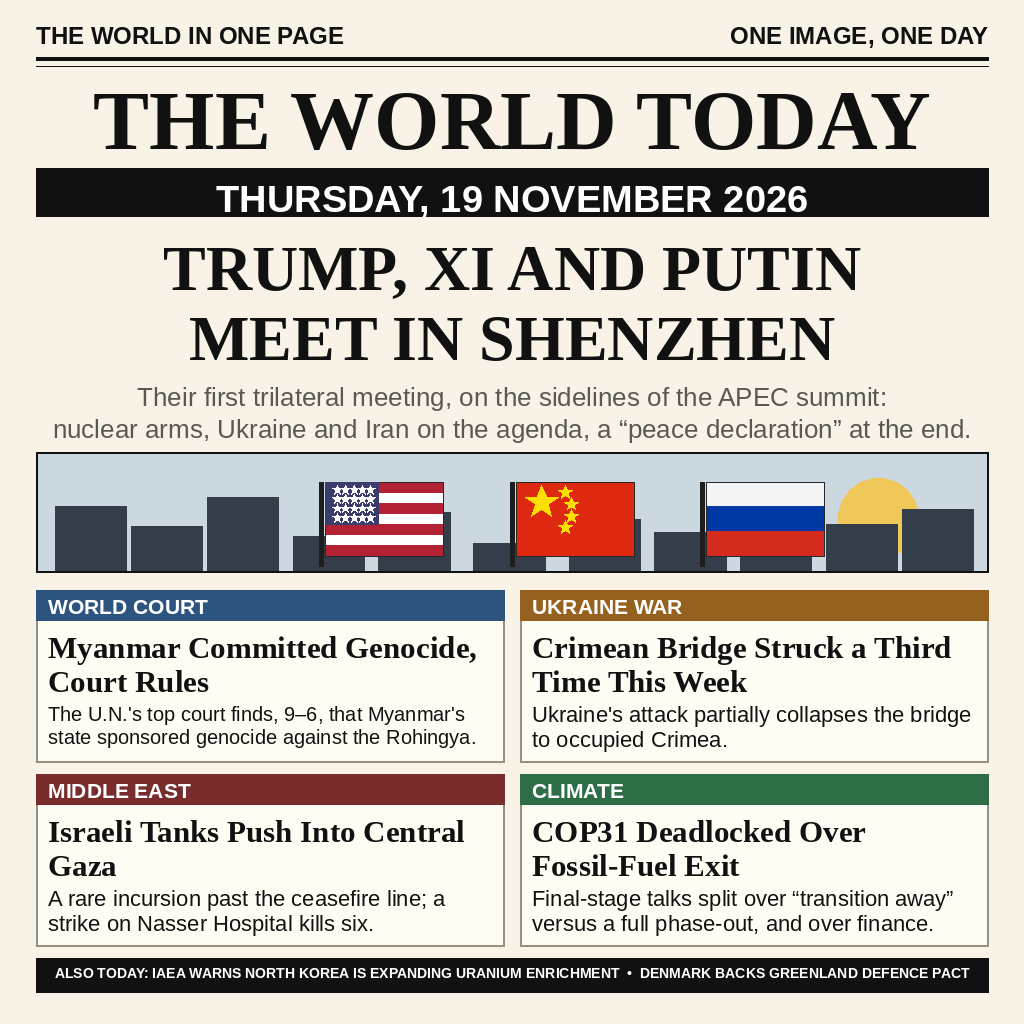
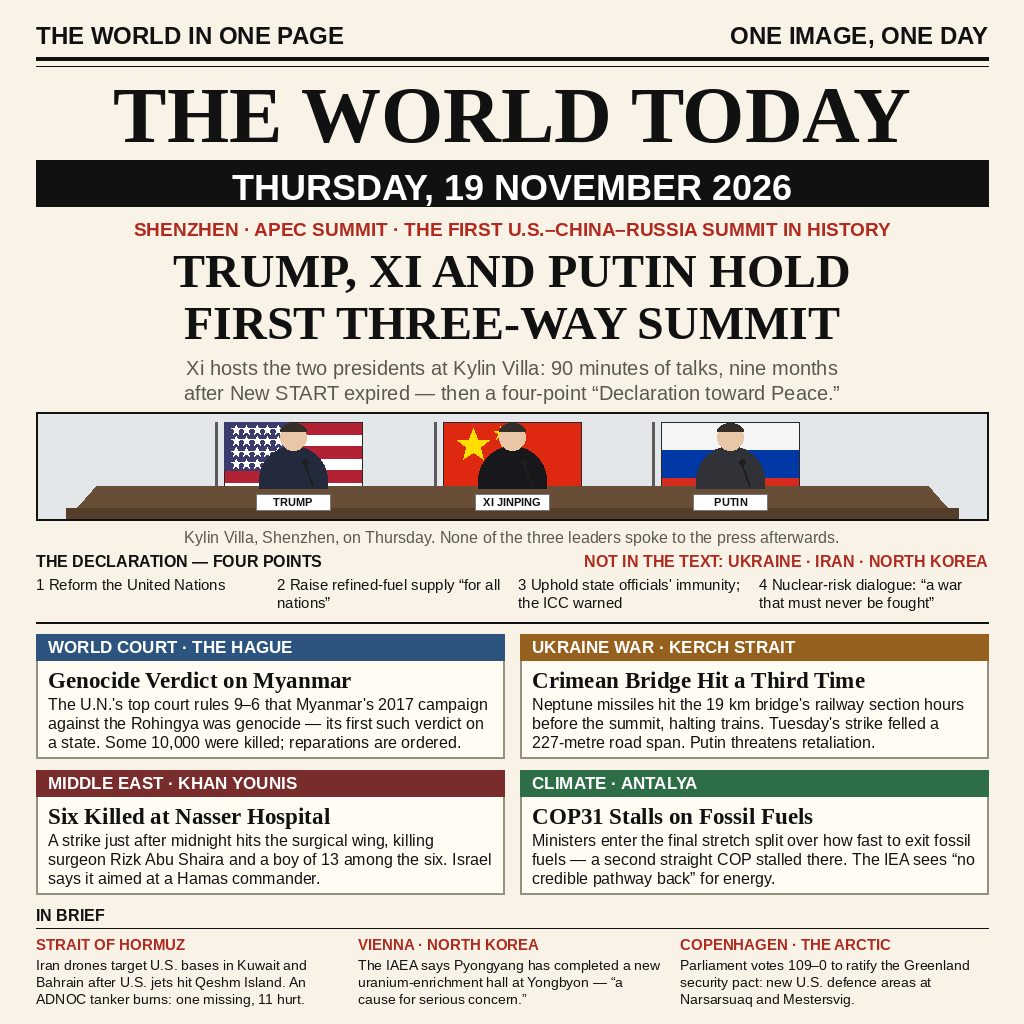
Enrich the front page: summit scene, declaration points, fuller stories

diff --git a/compose.py b/compose.py
@@ -110,46 +110,73 @@ def flag_ru(draw, x, y, w, h):
 
 
 def hero(draw, x0, y0, x1, y1):
-    """Shenzhen skyline under three flags: the trilateral summit."""
-    draw.rectangle([x0, y0, x1, y1], fill=SKY)
-    # sun
-    draw.ellipse([x1 - 150, y0 + 26, x1 - 70, y0 + 106], fill=(240, 200, 90))
-    # skyline silhouette
-    base = y1
-    towers = [(0.02, 0.55), (0.10, 0.38), (0.18, 0.62), (0.27, 0.30),
-              (0.36, 0.50), (0.46, 0.24), (0.56, 0.44), (0.65, 0.33),
-              (0.74, 0.58), (0.83, 0.40), (0.91, 0.52)]
-    for fx, fh in towers:
-        tx = x0 + fx * (x1 - x0)
-        tw = (x1 - x0) * 0.075
-        draw.rectangle([tx, base - (y1 - y0) * fh, tx + tw, base],
-                       fill=(52, 62, 74))
-    # flag poles with flags, standing in front of the skyline
-    fw, fh = 118, 74
+    """The summit itself: three leaders at one long table, flags behind."""
+    draw.rectangle([x0, y0, x1, y1], fill=(228, 231, 233))
+    w = x1 - x0
+    # the three flags on stands along the back wall
+    fw, fh = 138, 84
     flags = [flag_us, flag_cn, flag_ru]
+    names = ["TRUMP", "XI JINPING", "PUTIN"]
+    suits = [(35, 42, 60), (24, 24, 28), (48, 50, 56)]
+    centers = []
     for i, draw_flag in enumerate(flags):
-        cx = x0 + (x1 - x0) * (0.30 + 0.20 * i)
-        top = y0 + 30
-        draw.line([cx, top, cx, base - 6], fill=(30, 30, 30), width=5)
-        draw_flag(draw, cx + 4, top, fw, fh)
+        cx = x0 + w * (0.27 + 0.23 * i)
+        centers.append(cx)
+        draw.line([cx - fw / 2 - 8, y0 + 10, cx - fw / 2 - 8, y1 - 26],
+                  fill=(90, 90, 90), width=3)
+        draw_flag(draw, cx - fw / 2, y0 + 10, fw, fh)
+    # the long table
+    table_top = y1 - 34
+    draw.polygon([(x0 + 60, table_top), (x1 - 60, table_top),
+                  (x1 - 30, y1), (x0 + 30, y1)], fill=(104, 78, 54))
+    draw.rectangle([x0 + 30, y1 - 12, x1 - 30, y1], fill=(84, 62, 42))
+    # the three leaders, seated at the table under their flags
+    for i, cx in enumerate(centers):
+        # shoulders and suit
+        draw.pieslice([cx - 34, table_top - 40, cx + 34, table_top + 28],
+                      180, 360, fill=suits[i])
+        draw.rectangle([cx - 34, table_top - 6, cx + 34, table_top + 2],
+                       fill=suits[i])
+        # head, with a thin cap of hair rather than a helmet
+        draw.ellipse([cx - 13, table_top - 62, cx + 13, table_top - 36],
+                     fill=(233, 198, 165))
+        draw.pieslice([cx - 13, table_top - 63, cx + 13, table_top - 47],
+                      180, 360, fill=(52, 46, 40))
+        # microphone
+        draw.line([cx + 20, table_top, cx + 12, table_top - 22],
+                  fill=(30, 30, 30), width=2)
+        draw.ellipse([cx + 9, table_top - 27, cx + 15, table_top - 21],
+                     fill=(30, 30, 30))
+        # name card on the table
+        draw.rectangle([cx - 37, table_top + 8, cx + 37, table_top + 24],
+                       fill=(255, 255, 255), outline=(120, 120, 120))
+        f = sans("Bold", 11)
+        tw = draw.textlength(names[i], font=f)
+        draw.text((cx - tw / 2, table_top + 10), names[i], font=f, fill=INK)
     draw.rectangle([x0, y0, x1, y1], outline=INK, width=2)
 
 
 def panel(draw, x, y, w, h, tag, tag_color, headline, body):
     draw.rectangle([x, y, x + w, y + h], fill=PANEL, outline=(150, 144, 128), width=2)
-    draw.rectangle([x, y, x + w, y + 30], fill=tag_color)
-    draw.text((x + 12, y + 4), tag, font=sans("Bold", 21), fill=(255, 255, 255))
-    hy = wrapped(draw, x + 12, y + 40, headline, serif("Bold", 31), w - 24, 1.12)
+    draw.rectangle([x, y, x + w, y + 26], fill=tag_color)
+    draw.text((x + 12, y + 3), tag, font=sans("Bold", 17), fill=(255, 255, 255))
+    hy = wrapped(draw, x + 12, y + 33, headline, serif("Bold", 23), w - 24, 1.12)
     # shrink the body until it fits the space the headline left
-    size = 22
-    while size > 15:
+    size = 16
+    while size > 12:
         f = sans("Regular", size)
         probe = ImageDraw.Draw(Image.new("RGB", (8, 8)))
-        end = wrapped(probe, 0, 0, body, f, w - 24, 1.18)
-        if hy + 4 + end <= y + h - 8:
+        end = wrapped(probe, 0, 0, body, f, w - 24, 1.2)
+        if hy + 3 + end <= y + h - 6:
             break
         size -= 1
-    wrapped(draw, x + 12, hy + 4, body, sans("Regular", size), w - 24, 1.18)
+    wrapped(draw, x + 12, hy + 3, body, sans("Regular", size), w - 24, 1.2)
+
+
+def brief(draw, x, y, w, lead, body):
+    """One short item in the IN BRIEF strip: a bold place line, then the news."""
+    draw.text((x, y), lead, font=sans("Bold", 15), fill=ACCENT)
+    wrapped(draw, x, y + 21, body, sans("Regular", 14), w, 1.25)
 
 
 def main():
@@ -165,54 +192,88 @@ def main():
     draw.line([MARGIN, 66, W - MARGIN, 66], fill=INK, width=1)
 
     # masthead
-    centered(draw, 74, "THE WORLD TODAY", serif("Bold", 84))
+    centered(draw, 70, "THE WORLD TODAY", serif("Bold", 80))
 
     # date bar: names the day, as the judge asks
-    draw.rectangle([MARGIN, 168, W - MARGIN, 216], fill=INK)
-    centered(draw, 177, "THURSDAY, 19 NOVEMBER 2026", sans("Bold", 38),
+    draw.rectangle([MARGIN, 160, W - MARGIN, 206], fill=INK)
+    centered(draw, 167, "THURSDAY, 19 NOVEMBER 2026", sans("Bold", 36),
              fill=(255, 255, 255))
 
     # main headline: the trilateral summit in Shenzhen
-    centered(draw, 232, "TRUMP, XI AND PUTIN", serif("Bold", 64))
-    centered(draw, 302, "MEET IN SHENZHEN", serif("Bold", 64))
-    centered(draw, 382,
-             "Their first trilateral meeting, on the sidelines of the APEC summit:",
-             sans("Regular", 26), fill=GREY)
-    centered(draw, 414,
-             "nuclear arms, Ukraine and Iran on the agenda, a \u201cpeace declaration\u201d at the end.",
-             sans("Regular", 26), fill=GREY)
+    centered(draw, 218,
+             "SHENZHEN \u00b7 APEC SUMMIT \u00b7 THE FIRST U.S.\u2013CHINA\u2013RUSSIA SUMMIT IN HISTORY",
+             sans("Bold", 19), fill=ACCENT)
+    centered(draw, 244, "TRUMP, XI AND PUTIN HOLD", serif("Bold", 48))
+    centered(draw, 296, "FIRST THREE-WAY SUMMIT", serif("Bold", 48))
+    centered(draw, 356,
+             "Xi hosts the two presidents at Kylin Villa: 90 minutes of talks, nine months",
+             sans("Regular", 20), fill=GREY)
+    centered(draw, 381,
+             "after New START expired \u2014 then a four-point \u201cDeclaration toward Peace.\u201d",
+             sans("Regular", 20), fill=GREY)
 
-    hero(draw, MARGIN, 452, W - MARGIN, 572)
+    hero(draw, MARGIN, 412, W - MARGIN, 520)
+    centered(draw, 528,
+             "Kylin Villa, Shenzhen, on Thursday. None of the three leaders spoke to the press afterwards.",
+             sans("Regular", 16), fill=GREY)
 
-    # four more of the day's stories
+    # the declaration's four points, as a strip under the picture
+    dy = 552
+    draw.text((MARGIN, dy), "THE DECLARATION \u2014 FOUR POINTS",
+              font=sans("Bold", 16), fill=INK)
+    note = "NOT IN THE TEXT: UKRAINE \u00b7 IRAN \u00b7 NORTH KOREA"
+    draw.text((W - MARGIN - draw.textlength(note, font=sans("Bold", 16)), dy),
+              note, font=sans("Bold", 16), fill=ACCENT)
+    points = ["1  Reform the United Nations",
+              "2  Raise refined-fuel supply \u201cfor all nations\u201d",
+              "3  Uphold state officials' immunity; the ICC warned",
+              "4  Nuclear-risk dialogue: \u201ca war that must never be fought\u201d"]
+    colw = (W - 2 * MARGIN - 3 * 14) // 4
+    for i, p in enumerate(points):
+        wrapped(draw, MARGIN + i * (colw + 14), dy + 24, p,
+                sans("Regular", 15), colw, 1.2)
+    draw.line([MARGIN, dy + 70, W - MARGIN, dy + 70], fill=INK, width=2)
+
+    # four more of the day's stories, each with its key numbers
     pw = (W - 2 * MARGIN - 16) // 2
-    ph = 172
-    gy = 590
-    panel(draw, MARGIN, gy, pw, ph, "WORLD COURT", (44, 84, 126),
-          "Myanmar Committed Genocide, Court Rules",
-          "The U.N.'s top court finds, 9\u20136, that Myanmar's state sponsored "
-          "genocide against the Rohingya.")
-    panel(draw, MARGIN + pw + 16, gy, pw, ph, "UKRAINE WAR", (150, 96, 30),
-          "Crimean Bridge Struck a Third Time This Week",
-          "Ukraine's attack partially collapses the bridge to occupied Crimea.")
+    ph = 124
+    gy = 634
+    panel(draw, MARGIN, gy, pw, ph, "WORLD COURT \u00b7 THE HAGUE", (44, 84, 126),
+          "Genocide Verdict on Myanmar",
+          "The U.N.'s top court rules 9\u20136 that Myanmar's 2017 campaign "
+          "against the Rohingya was genocide \u2014 its first such verdict on a "
+          "state. Some 10,000 were killed; reparations are ordered.")
+    panel(draw, MARGIN + pw + 16, gy, pw, ph, "UKRAINE WAR \u00b7 KERCH STRAIT", (150, 96, 30),
+          "Crimean Bridge Hit a Third Time",
+          "Neptune missiles hit the 19 km bridge's railway section hours "
+          "before the summit, halting trains. Tuesday's strike felled a "
+          "227-metre road span. Putin threatens retaliation.")
     gy2 = gy + ph + 12
-    panel(draw, MARGIN, gy2, pw, ph, "MIDDLE EAST", (120, 44, 44),
-          "Israeli Tanks Push Into Central Gaza",
-          "A rare incursion past the ceasefire line; a strike on Nasser "
-          "Hospital kills six.")
-    panel(draw, MARGIN + pw + 16, gy2, pw, ph, "CLIMATE", (46, 110, 70),
-          "COP31 Deadlocked Over Fossil-Fuel Exit",
-          "Final-stage talks split over \u201ctransition away\u201d versus a full "
-          "phase-out, and over finance.")
+    panel(draw, MARGIN, gy2, pw, ph, "MIDDLE EAST \u00b7 KHAN YOUNIS", (120, 44, 44),
+          "Six Killed at Nasser Hospital",
+          "A strike just after midnight hits the surgical wing, killing "
+          "surgeon Rizk Abu Shaira and a boy of 13 among the six. Israel "
+          "says it aimed at a Hamas commander.")
+    panel(draw, MARGIN + pw + 16, gy2, pw, ph, "CLIMATE \u00b7 ANTALYA", (46, 110, 70),
+          "COP31 Stalls on Fossil Fuels",
+          "Ministers enter the final stretch split over how fast to exit "
+          "fossil fuels \u2014 a second straight COP stalled there. The IEA sees "
+          "\u201cno credible pathway back\u201d for energy.")
 
-    # footer ticker
-    draw.rectangle([MARGIN, 958, W - MARGIN, 992], fill=INK)
-    ticker = ("ALSO TODAY: IAEA WARNS NORTH KOREA IS EXPANDING URANIUM ENRICHMENT  \u2022  "
-              "DENMARK BACKS GREENLAND DEFENCE PACT")
-    f = sans("Bold", 19)
-    while draw.textlength(ticker, font=f) > W - 2 * MARGIN - 16 and f.size > 12:
-        f = sans("Bold", f.size - 1)
-    centered(draw, 965, ticker, f, fill=(255, 255, 255))
+    # three shorter items across the foot of the page
+    by = 906
+    draw.text((MARGIN, by), "IN BRIEF", font=sans("Bold", 16), fill=INK)
+    draw.line([MARGIN, by + 22, W - MARGIN, by + 22], fill=INK, width=1)
+    bw = (W - 2 * MARGIN - 2 * 16) // 3
+    brief(draw, MARGIN, by + 30, bw, "STRAIT OF HORMUZ",
+          "Iran drones target U.S. bases in Kuwait and Bahrain after U.S. "
+          "jets hit Qeshm Island. An ADNOC tanker burns: one missing, 11 hurt.")
+    brief(draw, MARGIN + bw + 16, by + 30, bw, "VIENNA \u00b7 NORTH KOREA",
+          "The IAEA says Pyongyang has completed a new uranium-enrichment "
+          "hall at Yongbyon \u2014 \u201ca cause for serious concern.\u201d")
+    brief(draw, MARGIN + 2 * (bw + 16), by + 30, bw, "COPENHAGEN \u00b7 THE ARCTIC",
+          "Parliament votes 109\u20130 to ratify the Greenland security pact: "
+          "new U.S. defence areas at Narsarsuaq and Mestersvig.")
 
     img.save(OUT, optimize=True)
     print("wrote", OUT, os.path.getsize(OUT), "bytes")
